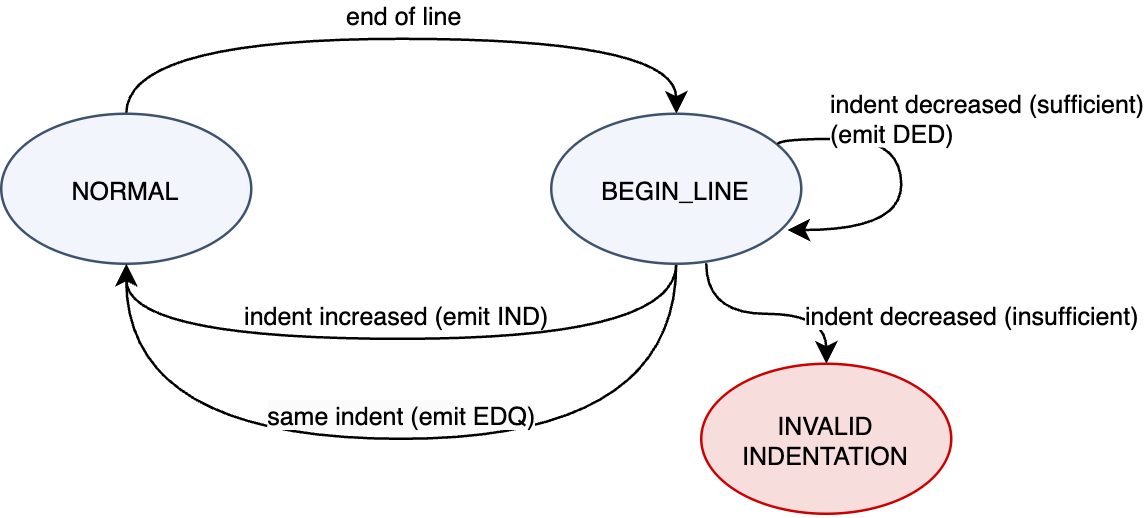
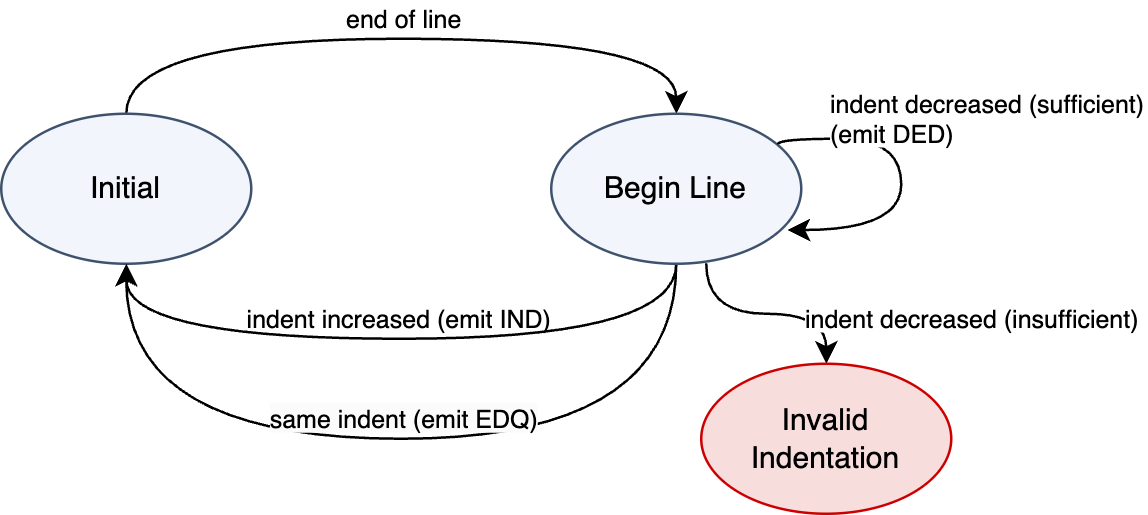
nimjet: simplify indentation

diff --git a/docs/nimjet/11-indentation.md b/docs/nimjet/11-indentation.md
@@ -84,7 +84,7 @@ we are in. The following diagram shows the state machine we need to implement.
 ![Lexer Indentation State Machine](images/lexer-indent-fsm.png =500x)
 
 Here's how it works:
-- We start in the `NORMAL` state.
+- We start in the `YYINITIAL` state (the default lexer state).
 - Upon encountering a newline character, we switch to the `BEGIN_LINE` state.
 - In the `BEGIN_LINE` state, we use a regex to match the leading whitespace of the 
   line and get its length. This is the indentation level of the line (which could be 
@@ -92,19 +92,19 @@ Here's how it works:
 - We have three cases:
   - If the indentation level is greater than the top of the stack, we emit an `IND` 
     token, push the new indentation level to the stack, and switch back to the 
-    `NORMAL` state.
+    `YYINITIAL` state.
   - If the indentation level is equal to the top of the stack, we emit an `EQD` token, 
-    and switch back to the `NORMAL` state (we don't modify the stack).
+    and switch back to the `YYINITIAL` state (we don't modify the stack).
   - The third case handles decrease in indentation, and is more involved than the 
     other two. That's because the decrease in indentation could be _insufficient_ 
     relative to the parent block. There are two situations to consider:
     - If there's only one level of indentation on the stack, and the current 
       indentation level is 0, we emit a `DED` token, pop the stack, and switch back to 
-      the `NORMAL` state.
+      the `YYINITIAL` state.
     - If there's more than one level of indentation on the stack, and the current 
       indentation level is less than or equal to the second-to-top level of the stack, 
       we emit a `DED` token, pop the stack, but we do *not* switch back to the 
-      `NORMAL` state just yet. Instead, we stay in the `BEGIN_LINE` state, push back 
+      `YYINITIAL` state just yet. Instead, we stay in the `BEGIN_LINE` state, push back 
       the whitespace text to the lexer, and let the lexer reprocess the line. This 
       allows us to emit the correct number of `DED` tokens until we reach the correct
       indentation level.
@@ -120,69 +120,69 @@ a `processIndentation` method to our lexer so that we can call it while in the
 // src/main/kotlin/khaledh/nimjet/lexer/Nim.flex
 ...
 
-// lexer states
-%state NORMAL
-%state BEGIN_LINE
-
 // lexer class code
+
+%{
+  private Stack<Integer> indentStack = new Stack<>();
+%}
+
+%init{
+  // initial indentation level is 0
+  indentStack.push(0);
+%init}
+
 %{
   private Stack<Integer> indentStack = new Stack<>();
 
   private IElementType processIndent() {
     int currIndent = yylength();
 
-    if (
-        (indentStack.empty() && currIndent > 0) ||
-        (!indentStack.empty() && currIndent > indentStack.peek())
-      ) {
-        // new indent level
-        indentStack.push(currIndent);
-        yybegin(NORMAL);
-        return NimToken.IND;
-     }
+    if (currIndent > indentStack.peek()) {
+      // new indent level
+      indentStack.push(currIndent);
+      yybegin(YYINITIAL);
+      return NimToken.IND;
+    }
 
-      if (
-        (indentStack.empty() && currIndent == 0) ||
-        (!indentStack.empty() && currIndent == indentStack.peek())
-      ) {
-          // same indent level
-          yybegin(NORMAL);
-          return NimToken.EQD;
-      }
+    if (currIndent == indentStack.peek()) {
+      // same indent level
+      yybegin(YYINITIAL);
+      return NimToken.EQD;
+    }
 
-     if (
-        (indentStack.size() == 1 && currIndent == 0) ||
-        (indentStack.size() > 1 && currIndent <= indentStack.get(indentStack.size() - 2))
-       ) {
-        // We can only dedent one level at a time, so don't switch back to NORMAL just yet,
-        // and keep returning DED tokens as long as there's more dedent levels.
-        indentStack.pop();
-        yypushback(yylength());
-        yybegin(BEGIN_LINE);
-        return NimToken.DED;
-     }
+    if (indentStack.size() > 1 && currIndent <= indentStack.get(indentStack.size() - 2)) {
+      // We can only dedent one level at a time, so don't switch back to YYINITIAL just yet,
+      // and keep returning DED tokens as long as there's more dedent levels.
+      indentStack.pop();
+      yypushback(yylength());
+      yybegin(BEGIN_LINE);
+      return NimToken.DED;
+    }
 
      // invalid indentation
      return NimToken.INVALID_IND;
   }
 %}
 
-Eol = \r\n|\r|\n
+// lexer states
+%state BEGIN_LINE
 
-<NORMAL> {
-    ...
-    {Eol}                 { yybegin(BEGIN_LINE); return TokenType.WHITE_SPACE; }
+// macros
+EOL = \r\n|\r|\n
+
+%%
+  
+<YYINITIAL> {
+  ...
+  {EOL}                   { yybegin(BEGIN_LINE); return TokenType.WHITE_SPACE; }
+  ...
 }
 
 <BEGIN_LINE> {
-  [ \t]*{Eol}             { return TokenType.WHITE_SPACE; } // skip empty lines
+  [ \t]*{EOL}             { return TokenType.WHITE_SPACE; } // skip empty lines
   [ \t]*                  { return processIndent(); }
 }
 ```
-
-Unfortunately, I couldn't find a way to initialize the stack with initial indentation
-level of 0, which would have simplified the logic a bit. So I had to check for empty 
-stack in the first two cases.
 
 When I tested this on a code sample, the IDE threw an error saying `"Lexer is not 
 progressing after calling advance()"`. At first, I was puzzled by this, so I fired up 
@@ -196,13 +196,9 @@ To work around this issue, I created two identical copies of the `BEGIN_LINE` st
 `BEGIN_LINE_1` and `BEGIN_LINE_2`, and updated the `DED` case to toggle between the 
 two states. It's a hack, but it works.
 
-```java {6,22-27,37-45}
+```java {15-20,30,34-39}
 // src/main/kotlin/khaledh/nimjet/lexer/Nim.flex
 ...
-
-// lexer states
-%state NORMAL
-%state BEGIN_LINE_1 BEGIN_LINE_2
 
 // lexer class code
 %{
@@ -211,11 +207,8 @@ two states. It's a hack, but it works.
   private IElementType processIndent() {
     ...
 
-    if (
-      (indentStack.size() == 1 && currIndent == 0) ||
-      (indentStack.size() > 1 && currIndent <= indentStack.get(indentStack.size() - 2))
-    ) {
-      // We can only dedent one level at a time, so don't switch back to NORMAL just yet,
+    if (indentStack.size() > 1 && currIndent <= indentStack.get(indentStack.size() - 2)) {
+      // We can only dedent one level at a time, so don't switch back to YYINITIAL just yet,
       // and keep returning DED tokens as long as there's more dedent levels.
       //
       // Also, IntelliJ's lexer validation doesn't like returning the same token multiple
@@ -231,15 +224,16 @@ two states. It's a hack, but it works.
     }
   }
 %}
+
+// lexer states
+%state BEGIN_LINE_1 BEGIN_LINE_2
 ...
+%%
 
-<BEGIN_LINE_1> {
-  [ \t]*{Eol}                    { return TokenType.WHITE_SPACE; }
-  [ \t]*                         { return processIndent(); }
-}
-
-<BEGIN_LINE_2> {
-  [ \t]*{Eol}                    { return TokenType.WHITE_SPACE; }
+// handle indentation
+// (we use two identical states to avoid a lexer validation issue; see processIndent)
+<BEGIN_LINE_1, BEGIN_LINE_2>
+  [ \t]*{EOL}                    { return TokenType.WHITE_SPACE; }
   [ \t]*                         { return processIndent(); }
 }
 ```
@@ -295,68 +289,30 @@ at the beginning of the file.
 
 We get an error saying that `<stmt list>` was expected at the beginning of the second 
 line. The reason is that the lexer emitted an `EQD` token for the empty line, which is 
-not expected by the parser at that location. We can easily fix this by adjusting the 
-lexer to skip whitespace at the beginning of the file.
+not expected by the parser at that location. We can easily fix this by skipping 
+whitespace at the beginning of the file. Instead of introducing more rules to handle 
+this, we can just use a flag `firstNonEmptyLine` (defaults to `true`), to decide 
+whether we're processing the first line or not, and act accordingly.
 
-```java
-// src/main/kotlin/khaledh/nimjet/lexer/Nim.flex
-...
-
-<YYINITIAL> {
-  // skip initial whitespace
-  [ \t]*{Eol}                    { return TokenType.WHITE_SPACE; }
-  [^]                            { yypushback(yylength()); yybegin(NORMAL); }
-}
-
-<NORMAL> {
-    ...
-}
-```
-
-Now the `YYINITIAL` state consumes any empty lines at the beginning of the file, and once
-it encounters a non-empty line, it pushes back that text and switches to the 
-`NORMAL` state to let it take over.
-
-While this should fix the leading empty lines issue, we've introduced another issue. 
-If the first non-empty line has leading whitespace, it's not going to be analyzed by 
-the `BEGIN_LINE_1` state, which means that the indentation level of the first line
-won't be recognized as an error.
-
-One way to fix this issue is to have the `YYINITIAL` state switch to the 
-`BEGIN_LINE_1` state if it encounters a non-empty line. This way, the lexer will get a 
-chance to analyze indentation for the first non-empty line. But this reintroduces 
-the original issue: now `processIndentation` will emit an `EQD` token for the first 
-line if it doesn't have leading whitespace. So, while I hate using flags for handling 
-special cases, I'm going to introduce a flag `firstNonEmptyLine` (defaults to `true`), 
-to decide whether we're processing the first line or not, and act accordingly.
-
-```java {6,11-15,24}
+```java {6,11-15}
 // src/main/kotlin/khaledh/nimjet/lexer/Nim.flex
 ...
 
 %{
   private Stack<Integer> indentStack = new Stack<>();
-  Boolean firstNonEmptyLine = true;
+  private Boolean firstNonEmptyLine = true;
 
   private IElementType processIndent() {
     int currIndent = yylength();
 
     if (firstNonEmptyLine && currIndent == 0) {
       firstNonEmptyLine = false;
-      yybegin(NORMAL);
+      yybegin(YYINITIAL);
       return TokenType.WHITE_SPACE;
     }
 
     ...
 %}
-...
-
-<YYINITIAL> {
-  // skip initial whitespace
-  [ \t]*{Eol}                    { return TokenType.WHITE_SPACE; }
-  [^]                            { yypushback(yylength()); yybegin(BEGIN_LINE_1); }
-}
-...
 ```
 
 This should fix the issue with the first non-empty line. Let's test it out.
@@ -384,7 +340,7 @@ in `NimToken`).
 // src/main/kotlin/khaledh/nimjet/lexer/Nim.flex
 ...
 
-<NORMAL> {
+<YYINITIAL> {
   ...
 
   "let"                          { return NimToken.LET; }
@@ -418,7 +374,6 @@ let's introduce a private rule `DED_OR_EOF` that matches either a `DED` token or
 end of file, and use it in places where we expect a `DED` token. A private rule means 
 it doesn't get a dedicated node in the PSI tree.
 
-```bnf
 ```bnf
 // src/main/kotlin/khaledh/nimjet/parser/Nim.bnf
 ...
@@ -486,7 +441,8 @@ first, followed by the `DED` tokens from the stack, which would have been incorr
 now that we ignore the last line if it's empty, we can safely emit those `DED` tokens once
 we encounter the end of file.
 
-Let's add a new method `processEof()` to our lexer to handle this.
+Let's add a new method `processEof()` to our lexer to handle this, and call it when we
+encounter the end of file from any state.
 
 ```java
 %{
@@ -503,8 +459,7 @@ Let's add a new method `processEof()` to our lexer to handle this.
 %}
 ...
 
-<YYINITIAL, NORMAL, BEGIN_LINE_1, BEGIN_LINE_2>
-  <<EOF>>                        { return processEof(); }
+<<EOF>>                        { return processEof(); }
 ```
 
 Since we can only return one token at a time, we call `advance()` to trigger another

diff --git a/docs/nimjet/12-decl-sections.md b/docs/nimjet/12-decl-sections.md
@@ -70,7 +70,7 @@ Let's not also forget to add the `var` and `const` keyword tokens to the lexer a
 ```java {7-8}
 ...
 
-<NORMAL> {
+<YYINITIAL> {
   ...
 
   "let"                          { return NimToken.LET; }
